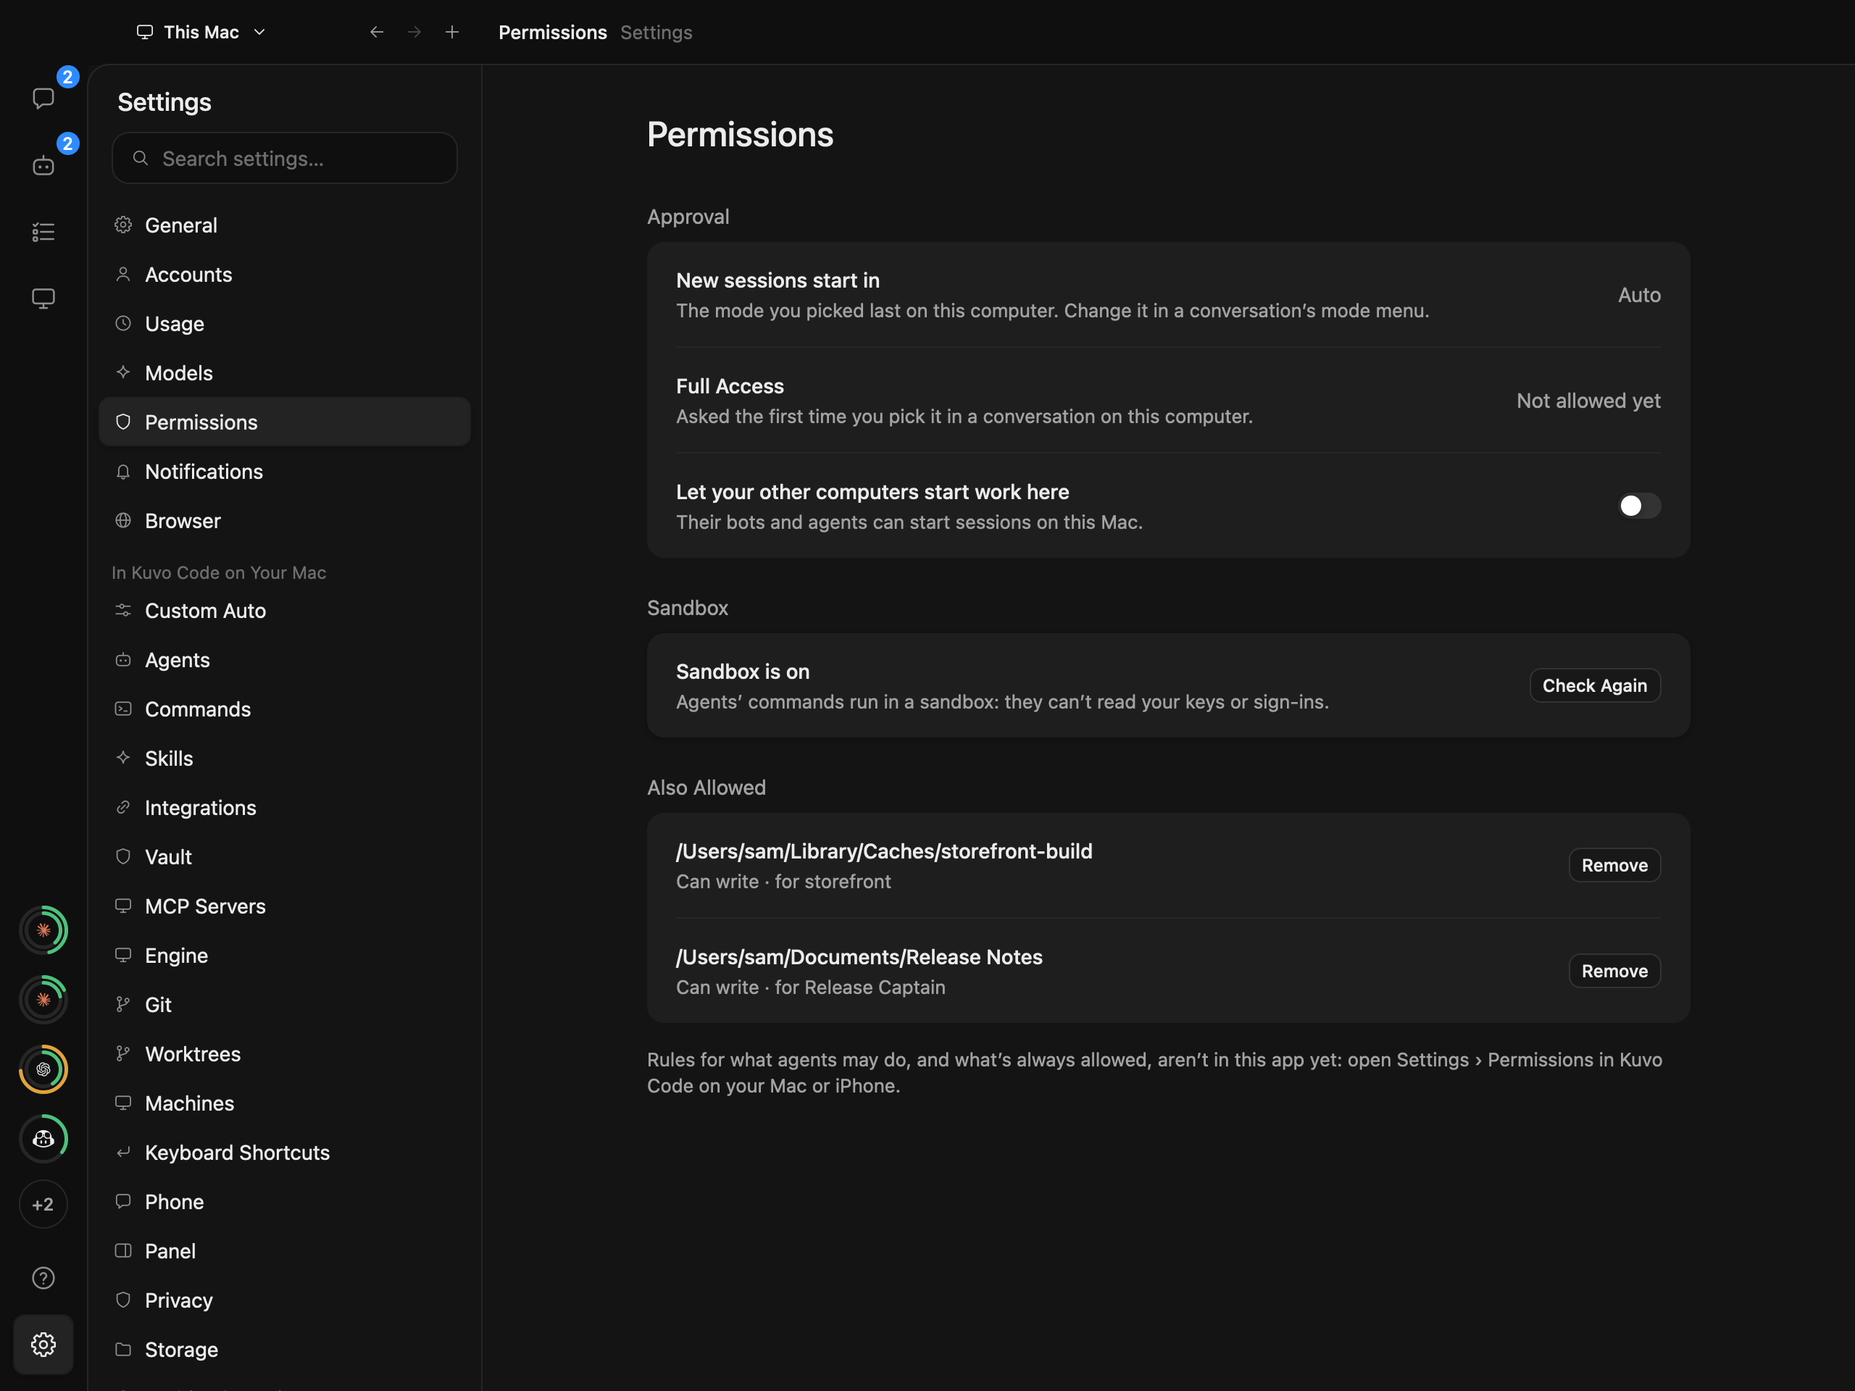
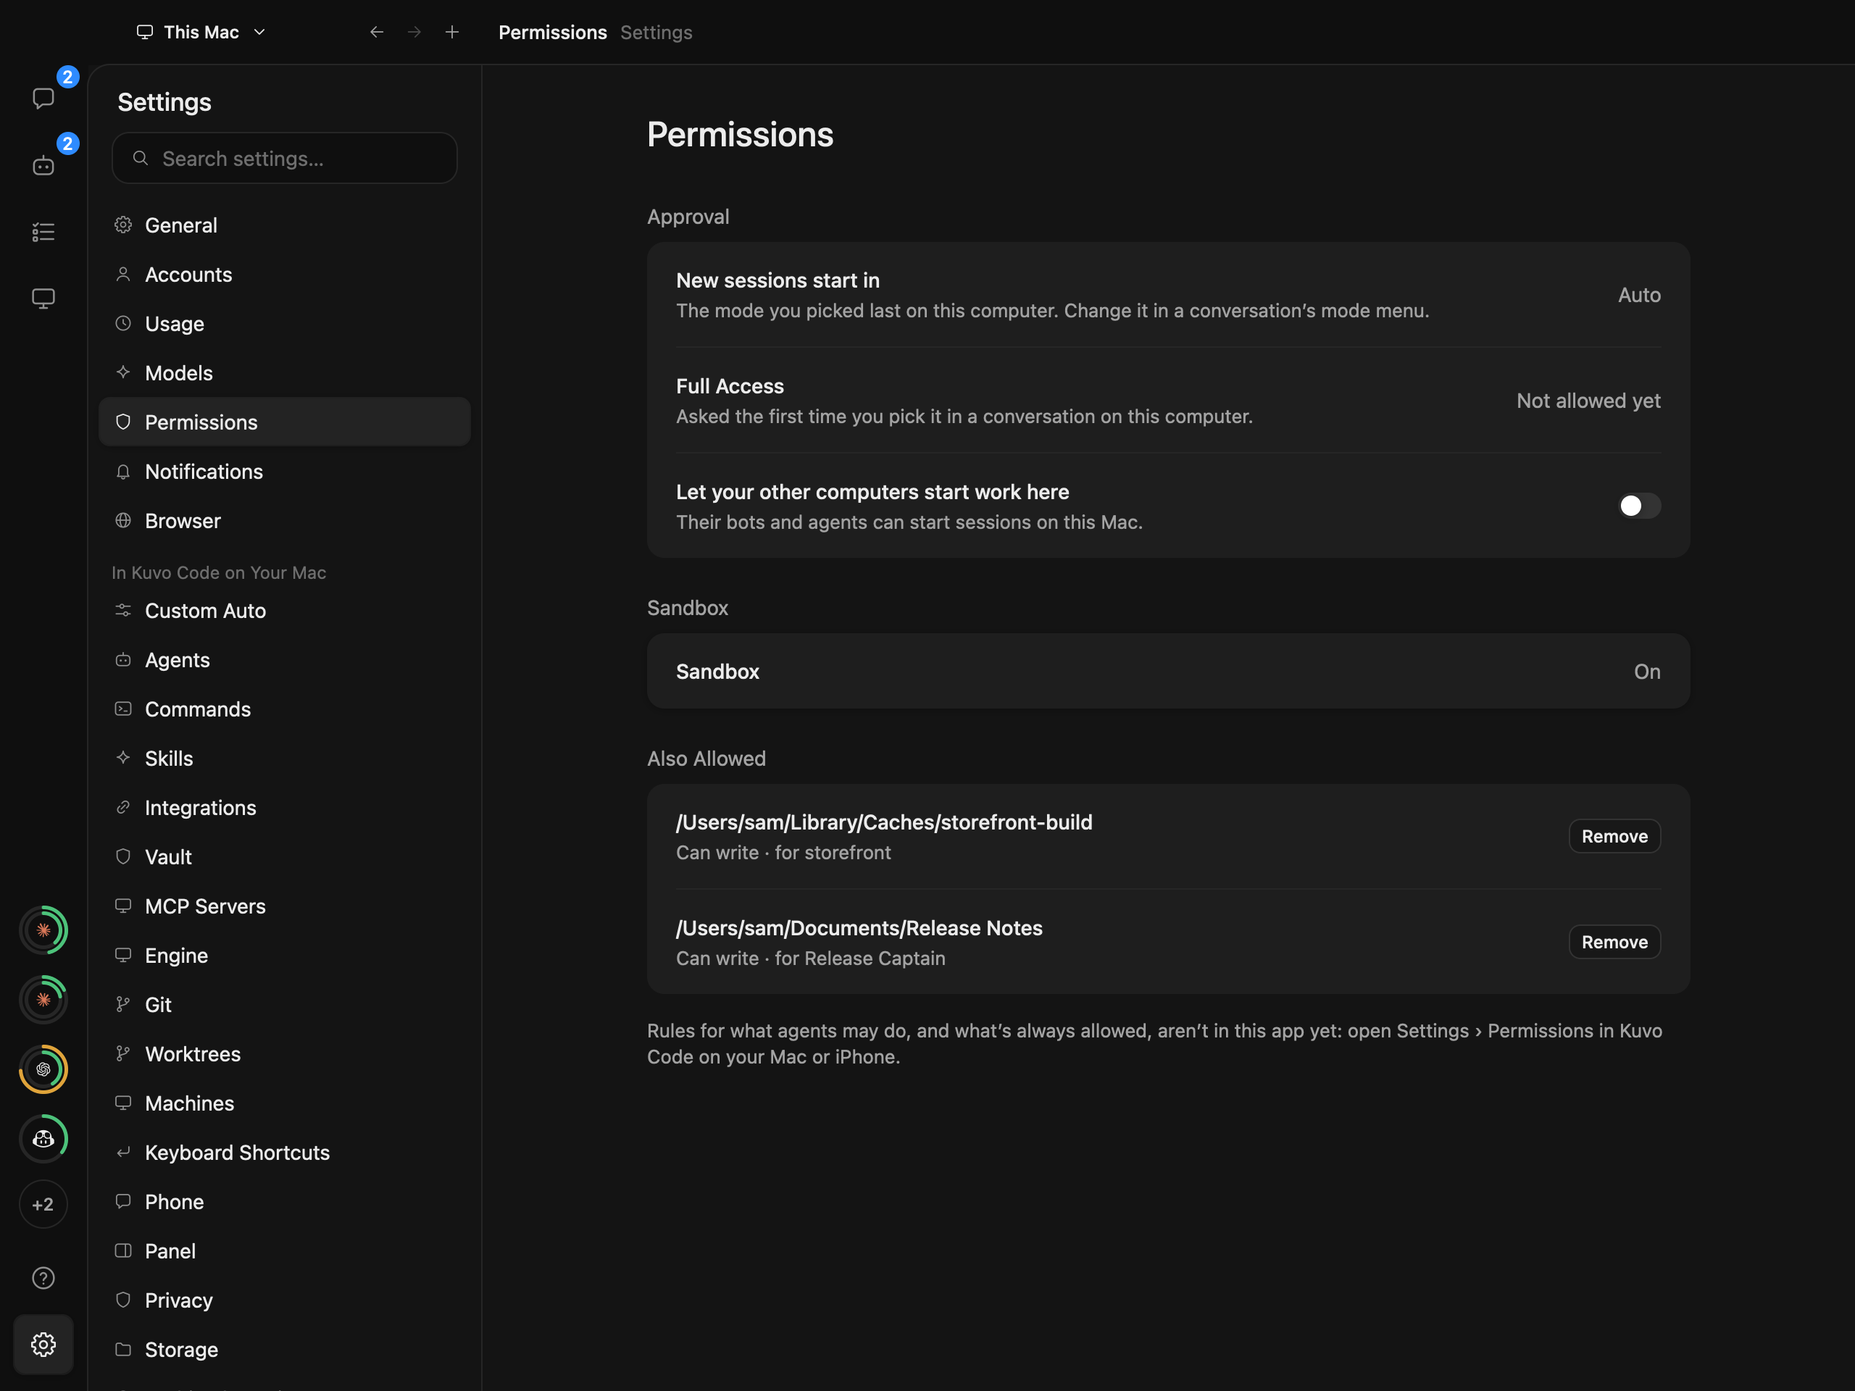
GPUI Settings: stand-ins port no box rule: Accounts lists every account the box returns, and the sandbox row shows the box's own words (its why, a button only where the box words it and names its route), else one neutral line

Changed region(s): [[0.3438, 0.4688, 0.875, 0.7812], [0.8438, 0.5938, 0.9062, 0.625], [0.8438, 0.4688, 0.9062, 0.5]]

diff --git a/gpui/kuvo_box/src/accounts.rs b/gpui/kuvo_box/src/accounts.rs
@@ -170,11 +170,6 @@ impl Integration {
         self.meta(key).and_then(Value::as_bool).unwrap_or(false)
     }
 
-    /// An MCP server's sign-in, which Settings › Integrations keeps, not Accounts.
-    pub fn is_mcp(&self) -> bool {
-        self.meta("source").and_then(Value::as_str) == Some("mcp")
-    }
-
     /// A coding agent's program isn't installed on this computer (`metadata.installed: false`).
     pub fn needs_install(&self) -> bool {
         self.meta("installed").and_then(Value::as_bool) == Some(false)
@@ -326,15 +321,6 @@ pub(crate) fn readable<'de, D: serde::Deserializer<'de>, T: serde::de::Deseriali
     Ok(values.into_iter().filter_map(|value| serde_json::from_value(value).ok()).collect())
 }
 
-/// The engine's integrations Accounts leaves out: web search services, whose keys Settings › Engine
-/// keeps, and the engine's own way to Claude's plan (Claude comes through the coding agents) unless
-/// it's signed in already. KuvoClient's `EngineProviders`, ported as the view rule it is.
-// BOX-NEEDED: which of the engine's integrations are providers Accounts lists, `kind: "provider" | "search" | "agentDuplicate"` on each account in `GET kuvo/sign-in/accounts` (or the box leaving the rest out), so no client keeps these lists.
-pub fn listed(integration: &Integration) -> bool {
-    const SEARCH: [&str; 5] = ["exa", "firecrawl", "parallel", "tavily", "tinyfish"];
-    !integration.is_mcp() && !SEARCH.contains(&integration.id.as_str()) && (integration.connected() || integration.id != "claude-agent")
-}
-
 /// The data an engine or bridge answer carries (`{data: …}`).
 #[derive(Deserialize)]
 struct Data<T> {
@@ -362,9 +348,9 @@ impl BoxClient {
             Side::Agents => "kuvo/sign-in/accounts?agents=1",
         };
         let ways: Vec<Entry> = self.get::<Answer>(route).map(|answer| answer.accounts)?;
+        // BOX-NEEDED: which of the engine's integrations are providers Accounts lists, `kind: "provider" | "search" | "agentDuplicate"` on each account in `GET kuvo/sign-in/accounts` (or the box leaving the rest out: web search services, MCP servers' sign-ins, the engine's own way to a plan a coding agent brings): until the box says, every account it lists is shown, none left out here.
         Ok(integrations
             .into_iter()
-            .filter(|integration| side == Side::Agents || listed(integration))
             .map(|integration| {
                 let ways = ways.iter().find(|entry| entry.id == integration.id).map(|entry| entry.ways.clone()).unwrap_or_default();
                 let ended = ended.contains(&integration.id);
@@ -510,15 +496,5 @@ mod tests {
         }
         let pending: Status = serde_json::from_value(json!({ "status": "pending", "message": "Downloading…" })).unwrap();
         assert_eq!(pending.failure_words(), None);
-    }
-
-    #[test]
-    fn accounts_leaves_out_search_services_and_mcp_servers() {
-        let integration = |json: Value| serde_json::from_value::<Integration>(json).unwrap();
-        assert!(listed(&integration(json!({ "id": "openrouter", "name": "OpenRouter" }))));
-        assert!(!listed(&integration(json!({ "id": "tavily", "name": "Tavily" }))));
-        assert!(!listed(&integration(json!({ "id": "linear", "name": "Linear", "metadata": { "source": "mcp" } }))));
-        assert!(!listed(&integration(json!({ "id": "claude-agent", "name": "Claude Agent" }))));
-        assert!(listed(&integration(json!({ "id": "claude-agent", "name": "Claude Agent", "connections": [{ "type": "credential", "method": "oauth" }] }))));
     }
 }

diff --git a/gpui/kuvo/tests/settings.rs b/gpui/kuvo/tests/settings.rs
@@ -133,7 +133,8 @@ fn accounts_lists_the_agents_and_providers_as_the_box_says_them(cx: &mut TestApp
     for row in ["account-claude-code", "account-claude-code@w0rk1a2b", "account-codex-cli", "account-cursor", "account-grok-cli", "account-github-copilot", "account-anthropic", "account-groq"] {
         assert!(shown(cx, row), "{row}");
     }
-    assert!(!shown(cx, "account-tavily") && !shown(cx, "account-linear"), "a search service and an MCP server's sign-in aren't accounts");
+    // Every account the box lists, none left out here: which aren't providers is the box's to say.
+    assert!(shown(cx, "account-tavily") && shown(cx, "account-linear"));
     // Signed in, ended, never: each says so, with the box's ways.
     assert!(shown(cx, "account-antigravity-sign-in-again"), "an agent whose sign-in ended");
     assert!(shown(cx, "account-gitlab-sign-in-again") && shown(cx, "account-gitlab-disconnect"), "an engine plan the box says ended");
@@ -344,11 +345,35 @@ fn permissions_show_the_boxs_approval_and_sandbox_and_change_through_it(cx: &mut
     assert!(shown(cx, "row-default-mode") && shown(cx, "row-full-access"));
     click(cx, "row-other-computers-switch");
     assert_eq!(bodies(&stand_in, "PATCH", "kuvo/approval"), vec![json!({ "otherComputers": true })]);
-    click(cx, "row-sandbox-check-again");
-    assert_eq!(stand_in.seen_at("POST", "kuvo/sandbox/check").len(), 1);
     click(cx, "allowed-alw_1-remove");
     assert_eq!(stand_in.seen_at("DELETE", "kuvo/sandbox/allowed/alw_1").len(), 1);
     assert!(!shown(cx, "allowed-alw_1") && shown(cx, "allowed-alw_2"));
+}
+
+/// The sandbox in the box's words alone: on, off with its `why` and the button it words (at the
+/// route it names), and off with nothing said.
+#[gpui::test]
+fn the_sandbox_is_drawn_in_the_boxs_words(cx: &mut TestAppContext) {
+    let stand_in = StandIn::at(Replies::Never, NOW);
+    let (workspace, cx) = open(cx, stand_in.clone());
+    section(&workspace, cx, "Permissions");
+    let line = |workspace: &Entity<Workspace>, cx: &mut VisualTestContext| settings(workspace, cx).read_with(cx, |view, _| view.row_detail("row-sandbox"));
+    assert_eq!(line(&workspace, cx).as_deref(), Some(""), "on: nothing worded here");
+    assert!(!shown(cx, "row-sandbox-try-again"));
+
+    stand_in.set_sandbox(json!({ "on": false, "able": true, "agents": false, "why": "Its check failed: a command could write outside its folder.", "reason": "checkFailed", "action": "retry", "route": "POST kuvo/sandbox/check", "actionLabel": "Try Again" }));
+    section(&workspace, cx, "Browser");
+    section(&workspace, cx, "Permissions");
+    assert_eq!(line(&workspace, cx).as_deref(), Some("Its check failed: a command could write outside its folder."));
+    click(cx, "row-sandbox-try-again");
+    assert_eq!(stand_in.seen_at("POST", "kuvo/sandbox/check").len(), 1, "at the box's route");
+
+    // Off, and the box words nothing: one neutral line, no button of this app's own.
+    stand_in.set_sandbox(json!({ "on": false, "able": true, "agents": false, "reason": "engineDown", "action": "restartEngine", "route": "POST kuvo/engine/restart" }));
+    section(&workspace, cx, "Browser");
+    section(&workspace, cx, "Permissions");
+    assert_eq!(line(&workspace, cx).as_deref(), Some("This needs your OK."));
+    assert!(!shown(cx, "row-sandbox-try-again") && !shown(cx, "row-sandbox-restart-engine"));
 }
 
 #[gpui::test]

diff --git a/gpui/kuvo/src/settings/rows.rs b/gpui/kuvo/src/settings/rows.rs
@@ -60,7 +60,8 @@ pub enum Act {
     /// A model setting at a path in the engine's settings, from what was read there.
     SetModel { path: &'static [&'static str], model: Option<String>, was: Option<String> },
     SetOtherComputers(bool),
-    CheckSandbox,
+    /// The sandbox's button, at the route the box named.
+    SandboxAction { method: String, path: String },
     RemoveAllowed(String),
     SetSearchEngine(String),
     SetTidies(bool),
@@ -468,14 +469,13 @@ fn permissions(facts: &Facts) -> Vec<Block> {
     }
     match facts.sandbox {
         Reading::Ready(sandbox) => {
-            // BOX-NEEDED: what the sandbox's state means and what to do, as sentences in `GET kuvo/sandbox` (`why` for every `reason`, and the button's words for `action`): KuvoClient's `SandboxNotice` words them in the clients today, so this says on or off and the box's `why` alone.
-            let detail = if sandbox.on {
-                "Agents’ commands run in a sandbox: they can’t read your keys or sign-ins.".to_owned()
-            } else {
-                sandbox.why.clone().unwrap_or_else(|| "It’s off on this computer.".into())
-            };
-            let control = facts.busy("row-sandbox").unwrap_or(Control::Buttons(vec![("Check Again".into(), Act::CheckSandbox)]));
-            let state = Row::new("row-sandbox", if sandbox.on { "Sandbox is on" } else { "Sandbox is off" }, detail, control).warning(!sandbox.on);
+            // BOX-NEEDED: why it's off and what to do, as sentences in `GET kuvo/sandbox` (`why` for every `reason`, and `actionLabel` for its button): drawn only as the box words them; otherwise one neutral line, and no button.
+            let detail = if sandbox.on { String::new() } else { sandbox.why.clone().filter(|why| !why.trim().is_empty()).unwrap_or_else(|| "This needs your OK.".into()) };
+            let control = facts.busy("row-sandbox").unwrap_or_else(|| match sandbox.button() {
+                Some((label, method, path)) if !sandbox.on => Control::Buttons(vec![(label, Act::SandboxAction { method, path })]),
+                _ => Control::Text(if sandbox.on { "On".into() } else { "Off".into() }),
+            });
+            let state = Row::new("row-sandbox", "Sandbox", detail, control).warning(!sandbox.on);
             blocks.push(Block::Group("Sandbox".into(), vec![state]));
         }
         reading => blocks.extend(unread(reading, "note-sandbox", "the sandbox")),

diff --git a/gpui/kuvo_box/src/settings.rs b/gpui/kuvo_box/src/settings.rs
@@ -92,9 +92,25 @@ pub struct Sandbox {
     /// `engineDown`, `waiting`.
     #[serde(default)]
     pub reason: Option<String>,
-    /// `help`, `softwareUpdate`, `retry`, `fix`, `restartEngine`.
+    /// `help`, `softwareUpdate`, `retry`, `fix`, `restartEngine`: a word for a client to map,
+    /// which this one doesn't (its button's words are the box's to say, below).
     #[serde(default)]
     pub action: Option<String>,
+    /// The box's route that does it (`POST kuvo/sandbox/check`).
+    #[serde(default)]
+    pub route: Option<String>,
+    // BOX-NEEDED: the words of the button that does `action`, `actionLabel` in `GET kuvo/sandbox` (and `why` for every `reason`): KuvoClient's `SandboxNotice` words them in each client today; this draws a button only with the box's words and its `route`.
+    #[serde(default, rename = "actionLabel")]
+    pub action_label: Option<String>,
+}
+
+impl Sandbox {
+    /// What its button sends, where the box words one and names its route: `(method, path)`.
+    pub fn button(&self) -> Option<(String, String, String)> {
+        let label = self.action_label.clone().filter(|label| !label.trim().is_empty())?;
+        let (method, path) = self.route.as_deref()?.split_once(' ')?;
+        Some((label, method.to_owned(), path.to_owned()))
+    }
 }
 
 /// Whose a folder the sandbox also lets agents write to is.
@@ -206,9 +222,10 @@ impl BoxClient {
         self.get("kuvo/sandbox")
     }
 
-    /// Asks the box to check its sandbox again.
-    pub fn check_sandbox(&self) -> Result<()> {
-        self.done(&Request::post("kuvo/sandbox/check", json!({})))
+    /// Does what the sandbox's button says, at the route the box named for it, then reads it again.
+    pub fn sandbox_action(&self, method: &str, path: &str) -> Result<Sandbox> {
+        self.done(&with_method(method, path, json!({})))?;
+        self.sandbox()
     }
 
     pub fn also_allowed(&self) -> Result<Vec<Allowed>> {

diff --git a/gpui/kuvo/src/settings/mod.rs b/gpui/kuvo/src/settings/mod.rs
@@ -221,6 +221,14 @@ impl SettingsView {
     }
 
     /// The sections the search finds something on (all of them without one).
+    /// The line under a row on the page open, as drawn.
+    pub fn row_detail(&self, key: &str) -> Option<String> {
+        self.items.iter().find_map(|item| match item {
+            Item::Row { row, .. } if row.key == key => Some(row.detail.clone()),
+            _ => None,
+        })
+    }
+
     pub fn sections_found(&self) -> Vec<&'static str> {
         rows::BUILT
             .iter()
@@ -416,11 +424,11 @@ impl SettingsView {
                 |this, approval| this.approval = Reading::Ready(approval),
                 cx,
             ),
-            Act::CheckSandbox => {
-                self.set_busy("row-sandbox", "Checking…");
+            Act::SandboxAction { method, path } => {
+                self.set_busy("row-sandbox", "Working…");
                 self.run(
                     "row-sandbox",
-                    |client| client.check_sandbox().and_then(|_| client.sandbox()),
+                    move |client| client.sandbox_action(&method, &path),
                     |this, done, _| {
                         this.done("row-sandbox");
                         match done {

diff --git a/gpui/kuvo/src/stand_in/settings.rs b/gpui/kuvo/src/stand_in/settings.rs
@@ -77,7 +77,8 @@ impl Default for Settings {
             integration("mistral", "Mistral", json!([]), json!({})),
             // Its page turns every sign-in down (`access_denied`), for what a failure shows.
             integration("poe", "Poe", json!([]), json!({})),
-            // Left out of Accounts: a web search service and an MCP server's sign-in.
+            // A web search service and an MCP server's sign-in, which the engine lists too: the box
+            // doesn't yet say they aren't providers (BOX-NEEDED in `kuvo_box/src/accounts.rs`).
             integration("tavily", "Tavily", json!([]), json!({})),
             integration("linear", "Linear", json!([]), json!({ "source": "mcp" })),
         ];
@@ -312,6 +313,10 @@ impl Settings {
             _ => return None,
         };
         Some(answer)
+    }
+
+    pub fn set_sandbox(&mut self, sandbox: Value) {
+        self.sandbox = sandbox;
     }
 
     pub fn set_config(&mut self, path: &[&str], value: Value) {

diff --git a/gpui/kuvo/src/stand_in.rs b/gpui/kuvo/src/stand_in.rs
@@ -150,6 +150,11 @@ impl StandIn {
         self.state().settings.set_config(path, value);
     }
 
+    /// From now on, it says this of its sandbox (`kuvo/sandbox`).
+    pub fn set_sandbox(&self, sandbox: Value) {
+        self.state().settings.set_sandbox(sandbox);
+    }
+
     /// Sign-ins under way are forgotten, as by an engine that started over.
     pub fn forget_sign_ins(&self) {
         self.state().settings.forget_sign_ins();

diff --git a/gpui/notes/phase-5-handover.md b/gpui/notes/phase-5-handover.md
@@ -20,7 +20,8 @@ restyle.
    by KuvoClient's names); Models (`kuvo/config`'s `model`, `agents.title.model`,
    `subagent_model`, from the engine's models offered, each sent with what was read, `was`);
    Permissions (`kuvo/approval`: the mode new sessions start in, Full Access, Auto held, other
-   computers' switch; `kuvo/sandbox` with Check Again; `kuvo/sandbox/allowed` with Remove);
+   computers' switch; `kuvo/sandbox` in the box's words, its button only where the box words it;
+   `kuvo/sandbox/allowed` with Remove);
    Notifications (the usage notices, #631 G, as one part from its version, and the box's words for
    providers that can't send them); Browser (`kuvo/browser/settings`, #693: search engine, tidying
    agents' tabs, offering to save sign-ins, and the sites never offered with Offer Again).
@@ -66,10 +67,10 @@ the shapes are proposals.
 | What | Route and shape | Where it's drawn | Until then |
 |---|---|---|---|
 | Which window is each ring | `rows[].windows[].span: short\|long` in `GET kuvo/agents/api/kuvo/limits` (#711) | `rail.rs`, `ring_button`; `kuvo_box/src/areas.rs`, `Account::rings` | one ring, the fullest window (the stand-in sends it) |
-| Which engine integrations are providers | `kind: provider\|search\|agentDuplicate` on each account in `GET kuvo/sign-in/accounts`, or the box leaving the rest out | `kuvo_box/src/accounts.rs`, `listed` | KuvoClient's `EngineProviders` rule, ported (search services, `claude-agent`), and MCP servers left out |
+| Which engine integrations are providers | `kind: provider\|search\|agentDuplicate` on each account in `GET kuvo/sign-in/accounts`, or the box leaving the rest out (web search services, MCP servers' sign-ins, `claude-agent`) | `kuvo_box/src/accounts.rs`, `side_accounts` | every account the box lists, unfiltered (no rule ported) |
 | An account's mark | `service` (the limits' ids) on each account in `GET kuvo/sign-in/accounts` | `settings/rows.rs`, `provider_row` | the provider's first letter (agents use the bridge's `metadata.agent`) |
 | A device code, the engine's too | `userCode` on `POST api/integration/<id>/connect/oauth`'s answer or `GET kuvo/sign-in/status`, for Copilot, OpenCode, SuperGrok | `settings/sign_in.rs`, `waiting` | the page and its instructions, no code apart (the bridge says it for agents) |
-| The sandbox's words | `why` for every `reason`, and a button's words for `action`, in `GET kuvo/sandbox` | `settings/rows.rs`, `permissions` | "Sandbox is on/off", the box's `why` where it gives one, Check Again |
+| The sandbox's words | `why` for every `reason`, and `actionLabel`, the words of the button that does `action` at its `route`, in `GET kuvo/sandbox` | `kuvo_box/src/settings.rs`, `Sandbox`; `settings/rows.rs`, `permissions` | "Sandbox" On or Off; off, the box's `why`, else "This needs your OK."; a button only with the box's words and route (none today) |
 | A window's level (#711, as before) | `windows[].level` | `rail.rs`, `settings/page.rs` `windows` | quiet grey meters and arcs |
 
 ## Review
@@ -101,6 +102,15 @@ One reviewer pass. Fixed, each with a test that fails on the code before where o
 - NITs left: Permissions', Vault's and Privacy's icons are all the shield (the set has no better
   yet); clearing the search doesn't go back to the section open before it; the composer's and the
   Files panel's selections keep the grey wash (they sit on white, not the sidebar grey).
+
+## The lead's follow-up
+
+Stand-ins draw a neutral default and port no rule or wording the box should own: Accounts lists
+every account the box returns (KuvoClient's `EngineProviders` rule removed), and the sandbox row
+words nothing of its own (its "Check Again" and the client's sentences removed; the box's `why`,
+or "This needs your OK.", and a button only with the box's words and route). Tests:
+`accounts_lists_the_agents_and_providers_as_the_box_says_them` (unfiltered),
+`the_sandbox_is_drawn_in_the_boxs_words` (on, off with the box's words and button, off with none).
 
 ## Left
 
